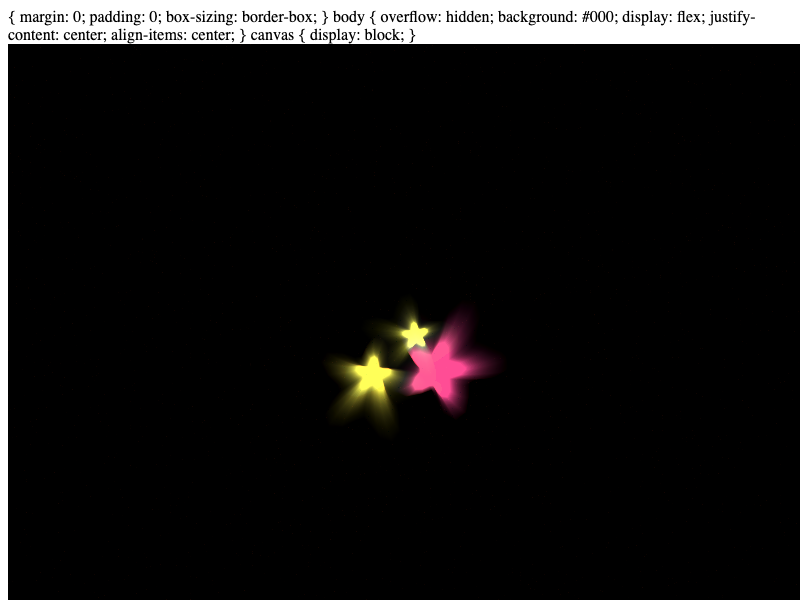
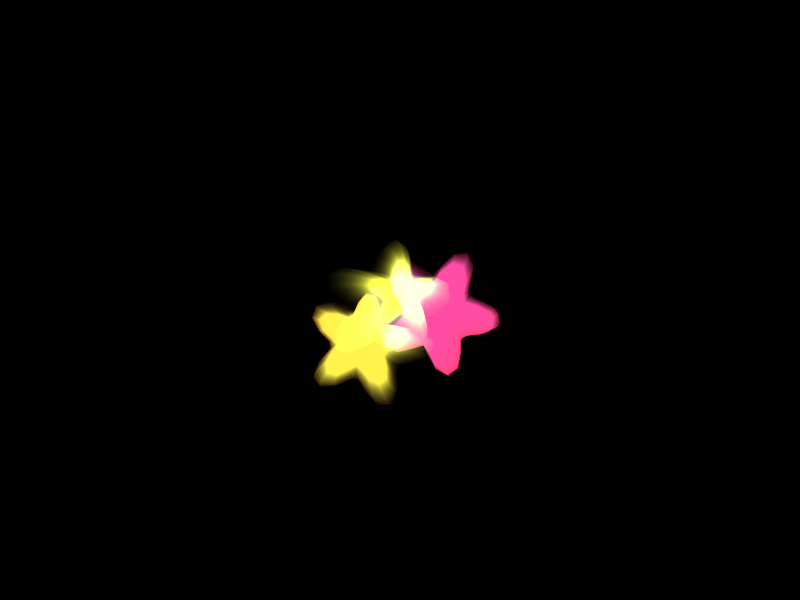
Fix echoes.html and re-capture thumbnails

Changed region(s): [[0.0, 0.0, 1.0, 1.0], [0.375, 0.39, 0.625, 0.72]]

diff --git a/echoes.html b/echoes.html
@@ -4,9 +4,9 @@
   <meta charset="UTF-8">
   <meta name="viewport" content="width=device-width, initial-scale=1.0">
   <title>Echoes</title>
-  <script src="https://cdnjs.cloudflare.com/ajax/libs/p5.js/1.9.0/p5.min.js"><style>
-    *</script>
-   { margin: 0; padding: 0; box-sizing: border-box; }
+  <script src="https://cdnjs.cloudflare.com/ajax/libs/p5.js/1.9.0/p5.min.js"></script>
+  <style>
+    * { margin: 0; padding: 0; box-sizing: border-box; }
     body { 
       overflow: hidden; 
       background: #000;
